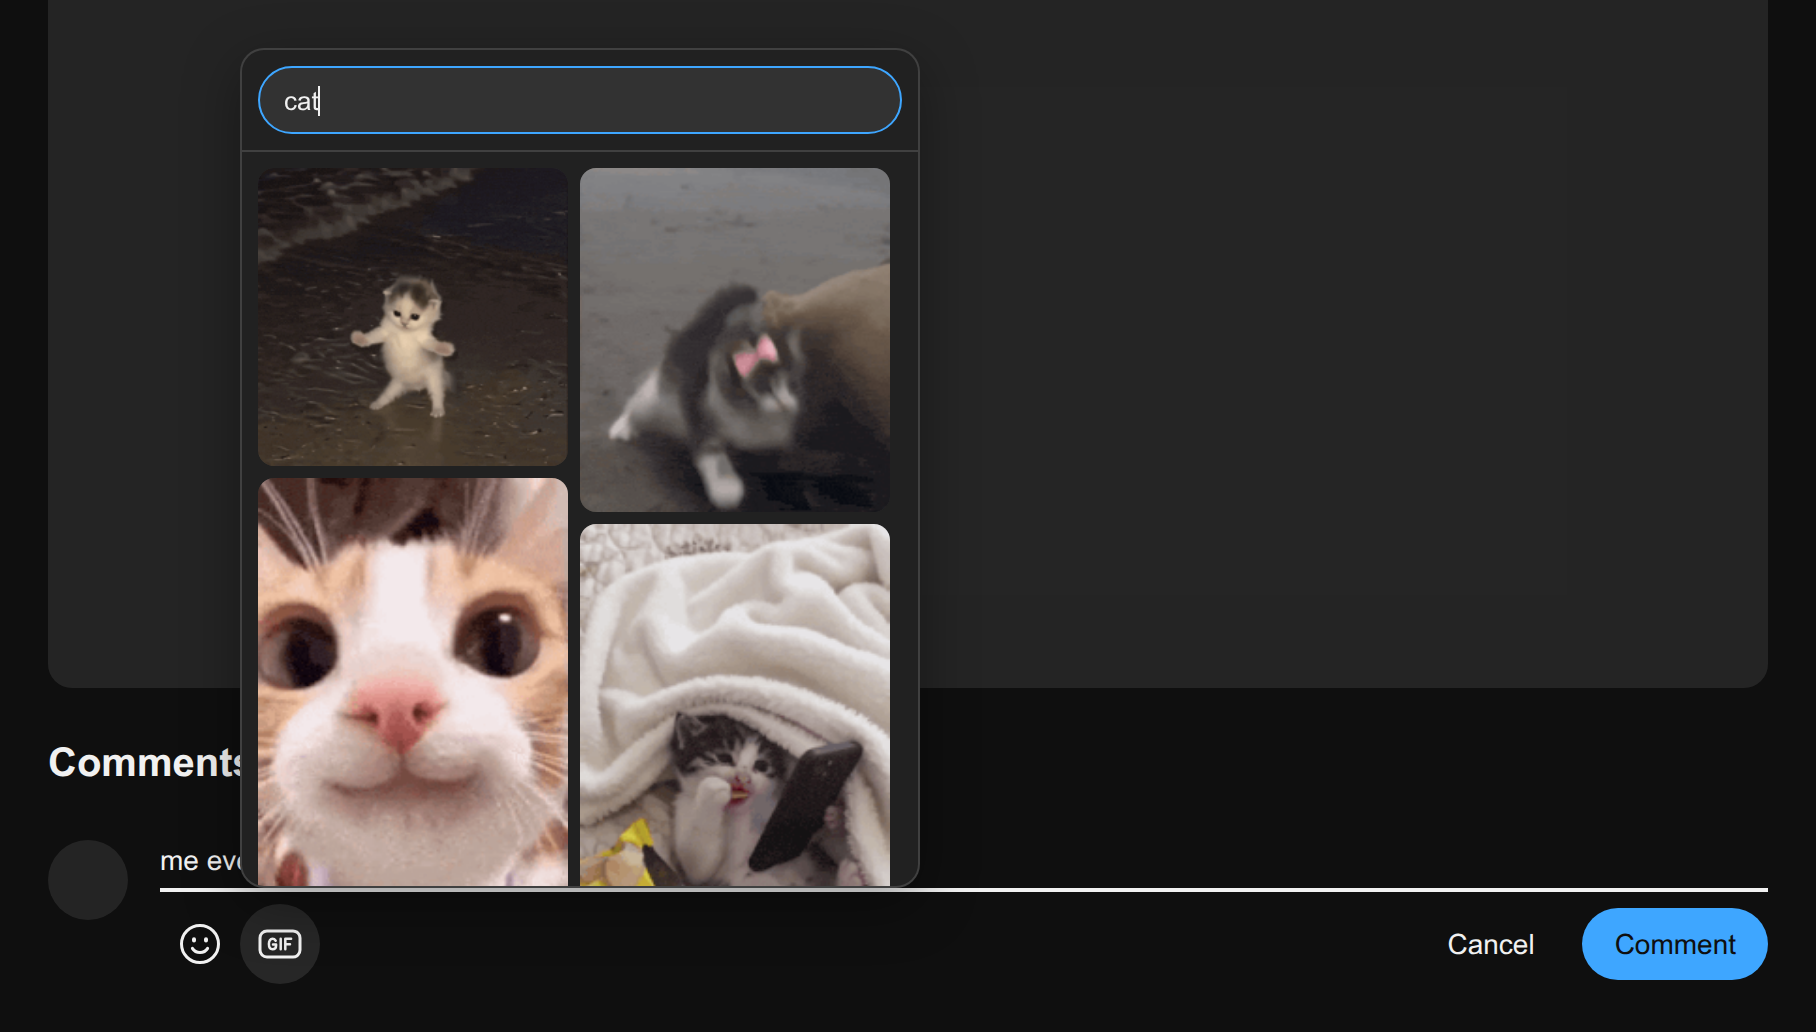
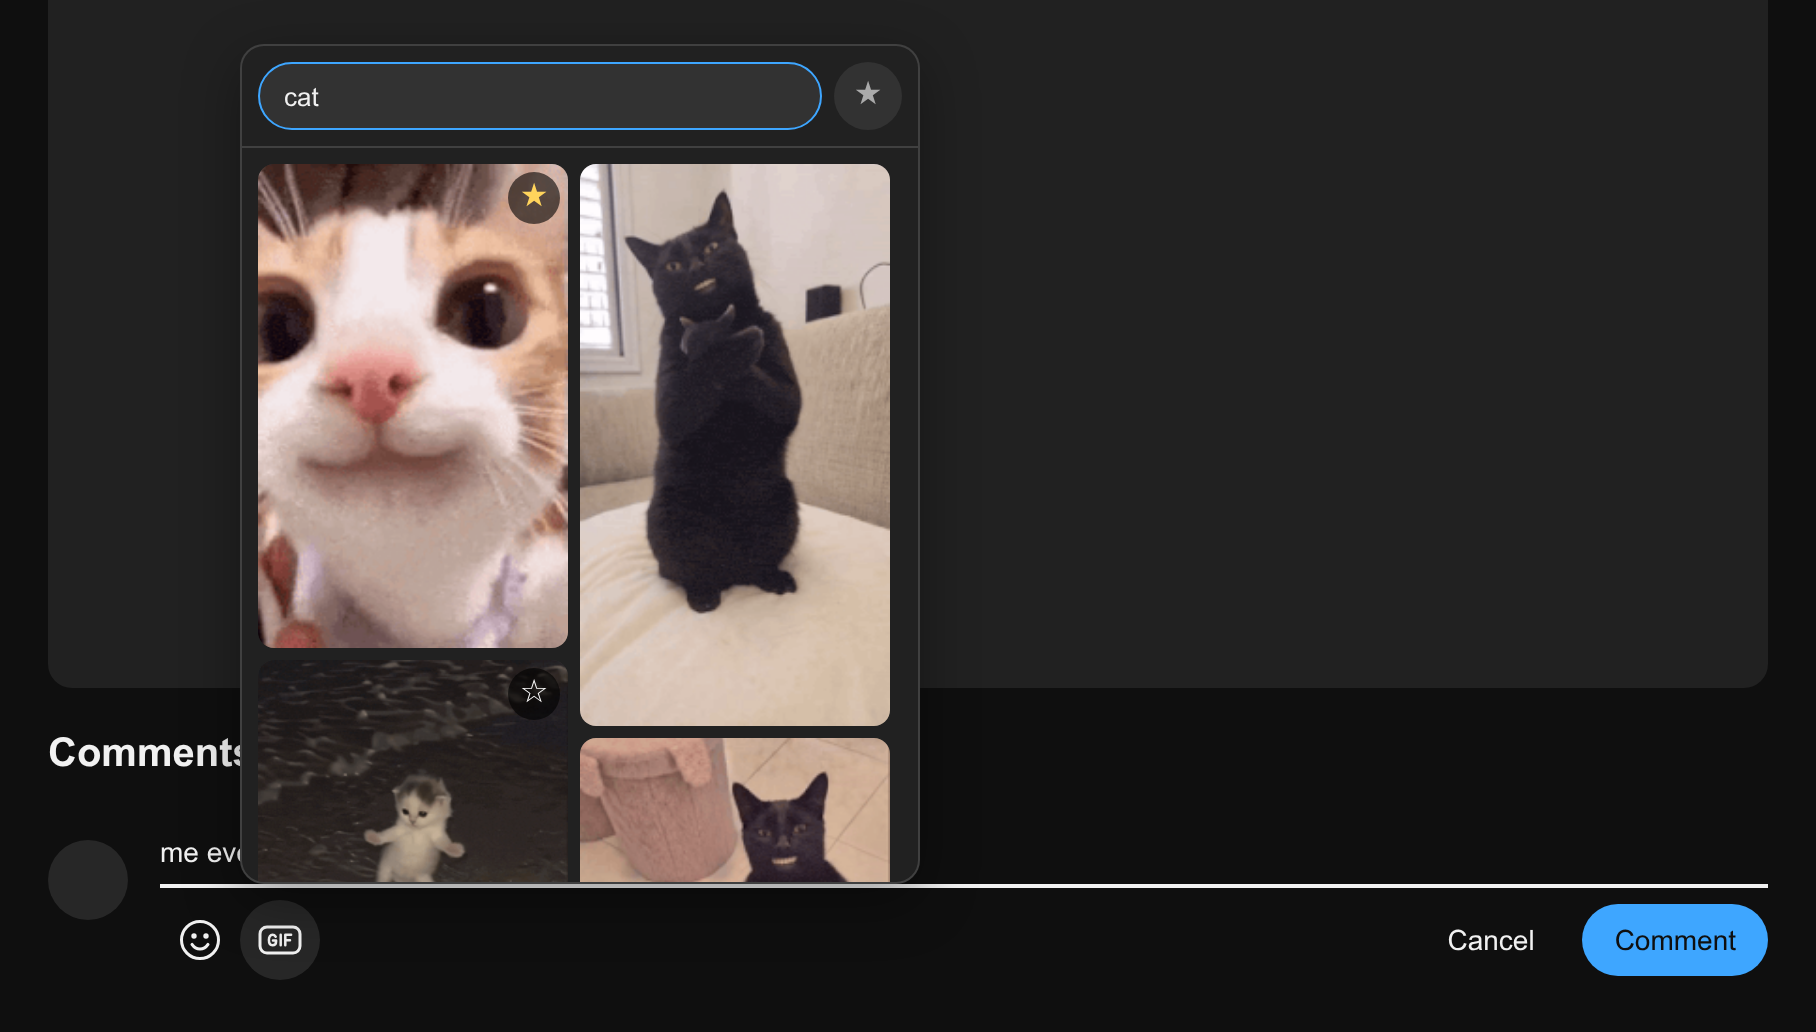
Show favorites in the picker screenshot
The picture now has the favorites button next to the search field and
a starred GIF. It was taken with the extension itself on a stand-in
page, as before.

Changed region(s): [[0.0308, 0.031, 0.9868, 0.9612]]

diff --git a/README.md b/README.md
@@ -26,7 +26,7 @@
 </p>
 
 <p align="center">
-  <img src="screenshots/picker.png" width="720" alt="The GIF picker open above a comment box, showing search results for &quot;cat&quot;">
+  <img src="screenshots/picker.png" width="720" alt="The GIF picker open above a comment box, showing search results for &quot;cat&quot;, one of them starred as a favorite">
 </p>
 
 YouTube's mobile app can attach a GIF to a comment; the desktop site has no button for it. Desktop GIFs adds one, next to the emoji button:
